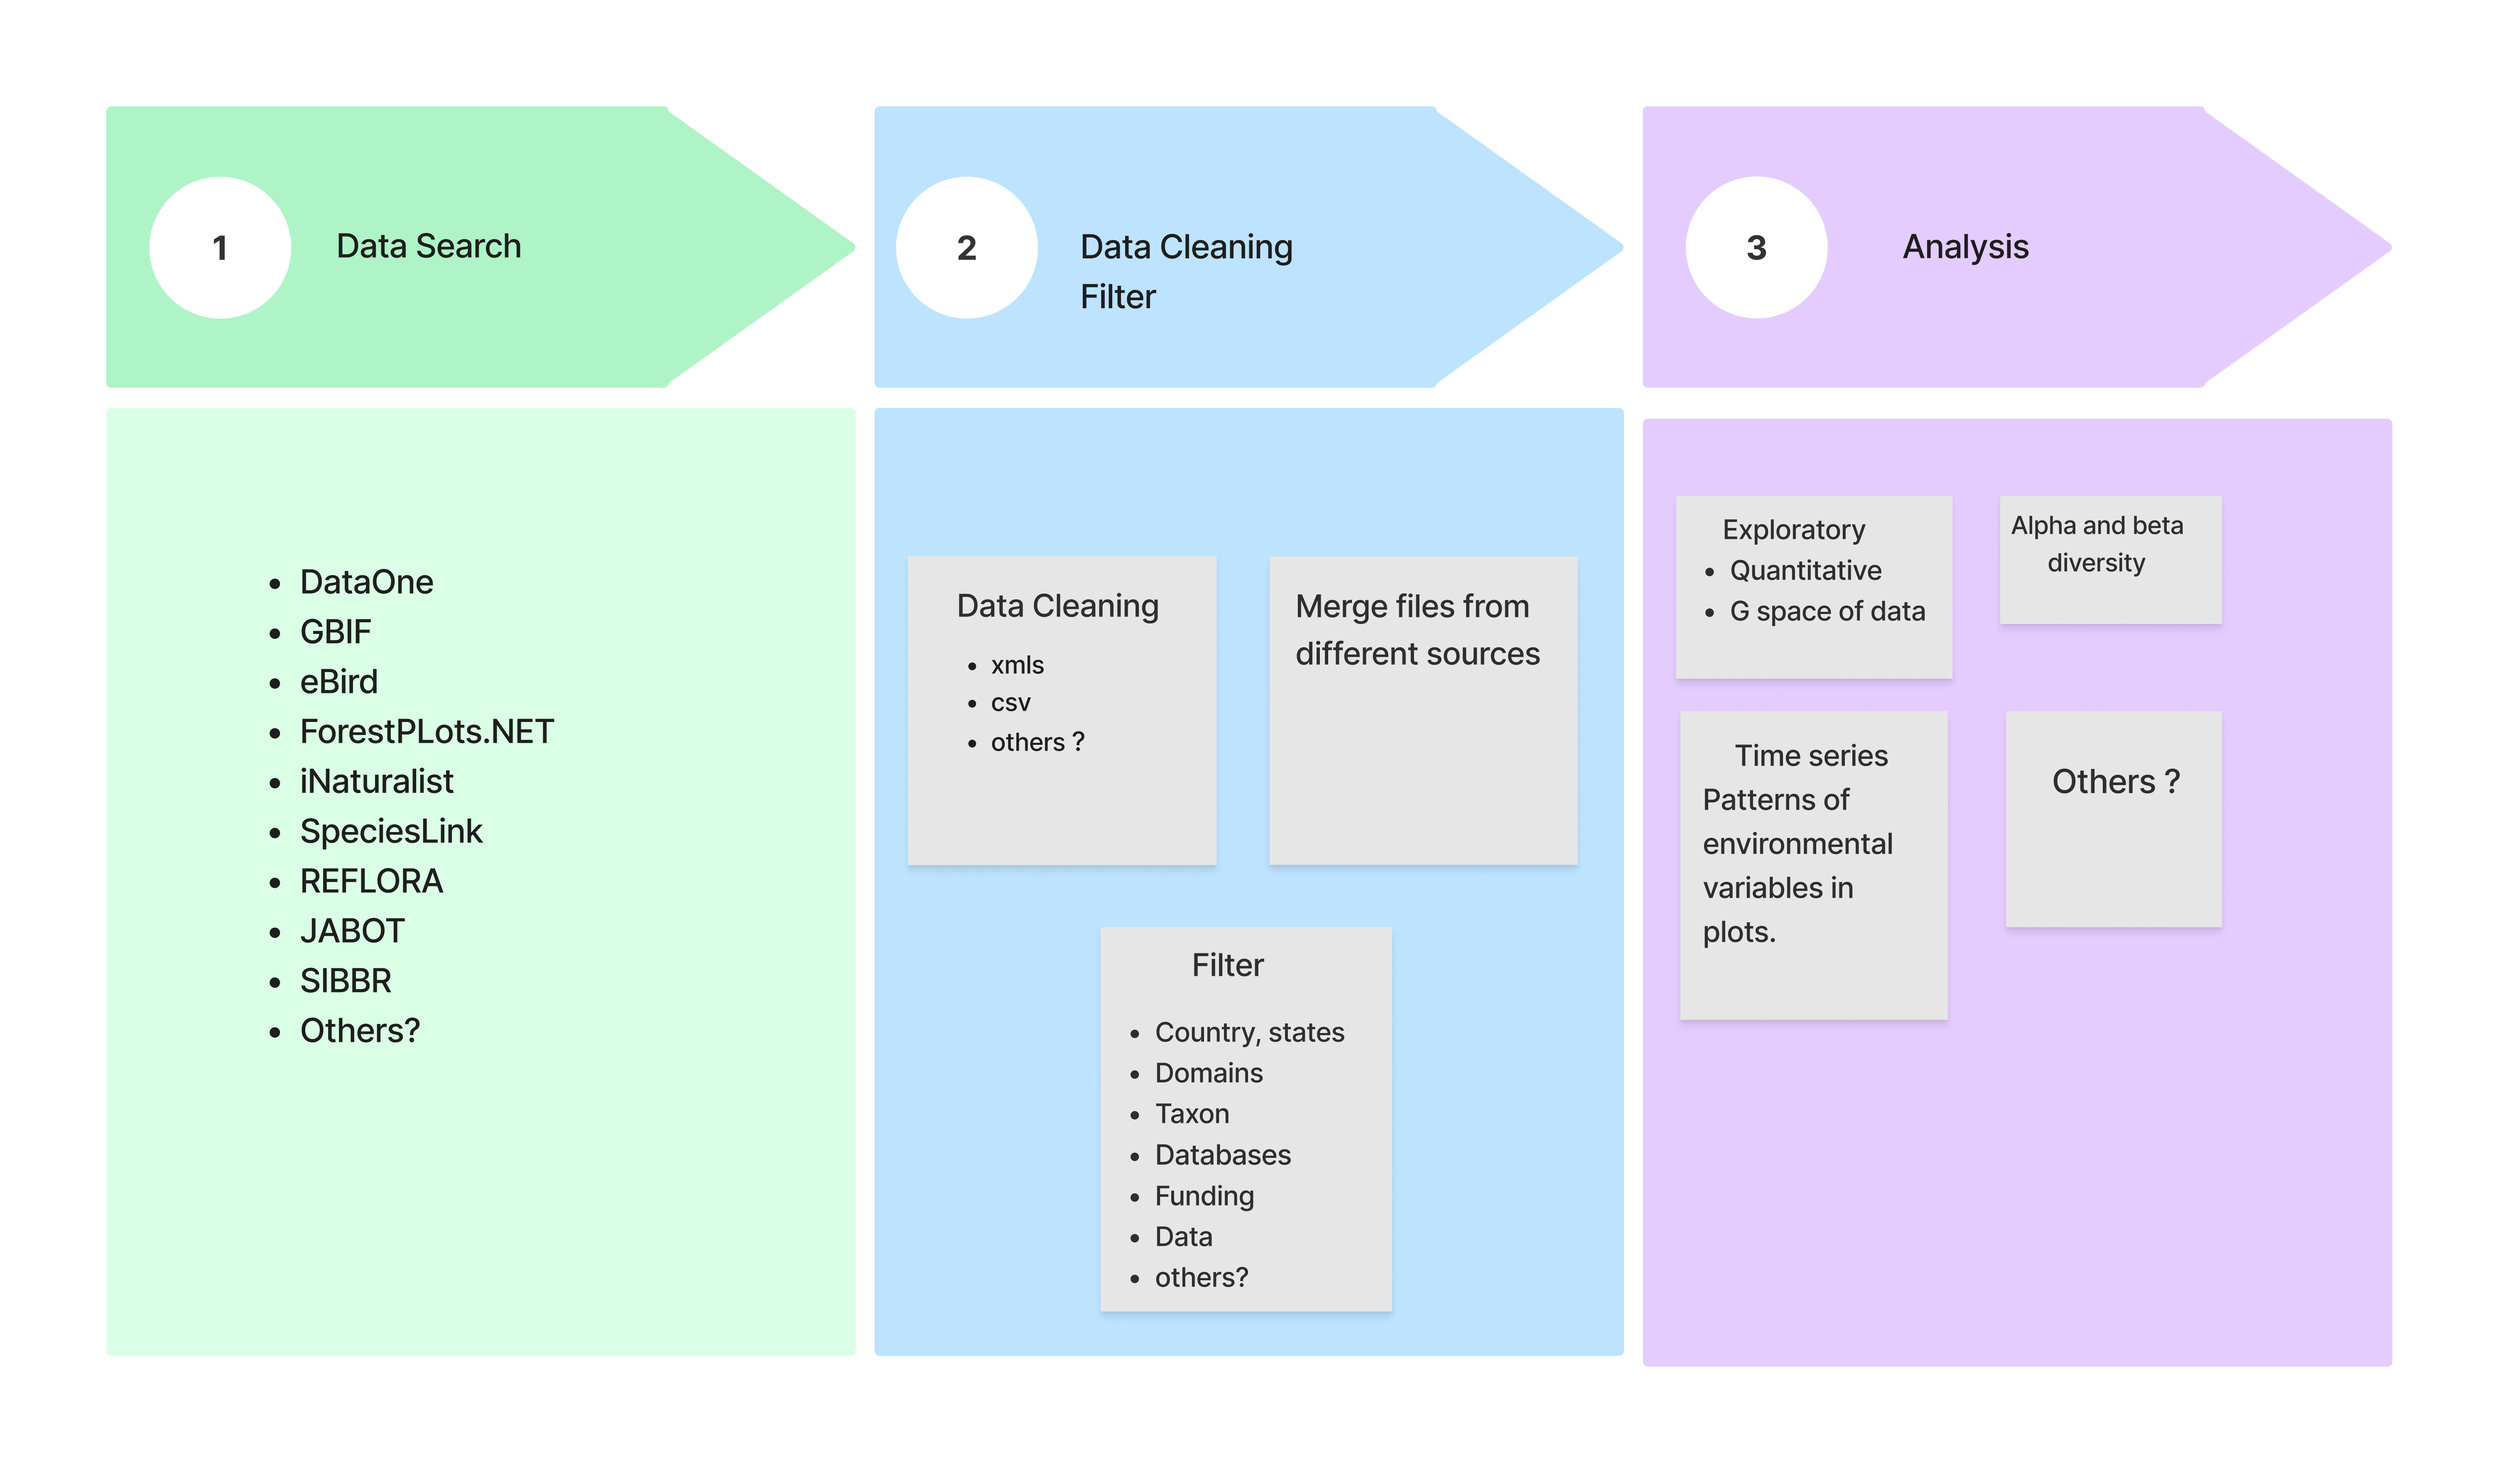
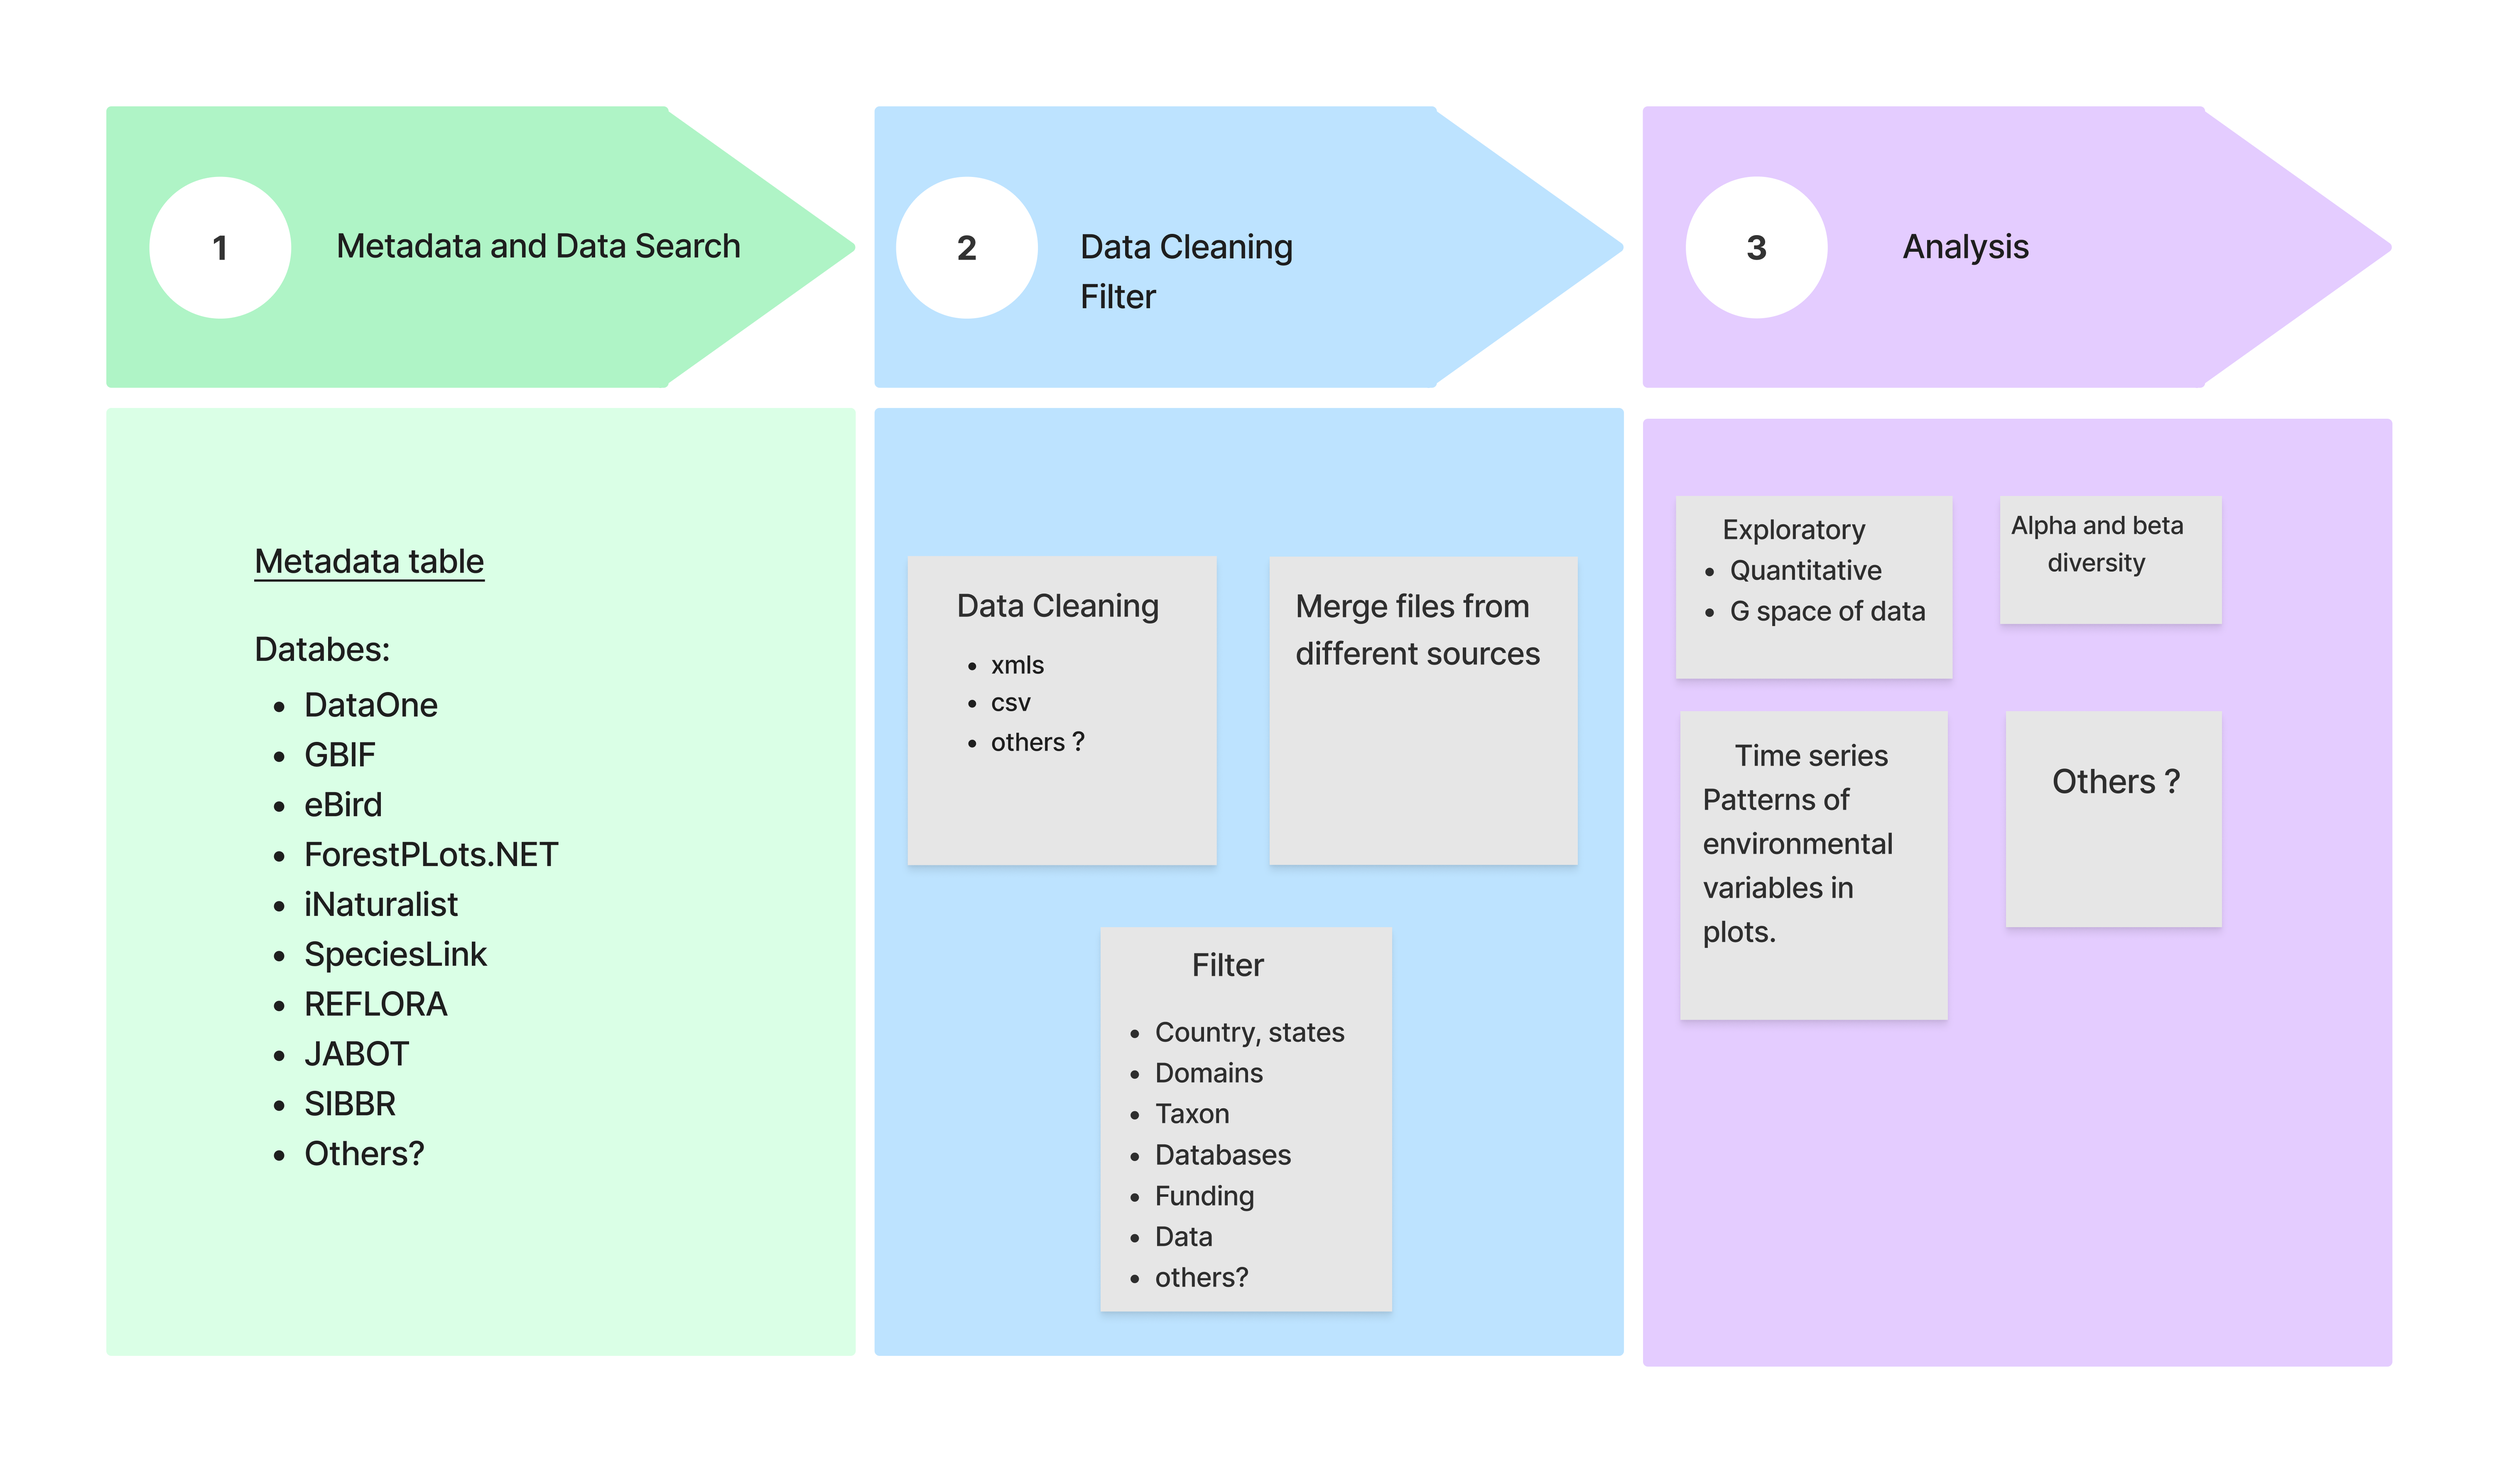
updating README

Changed region(s): [[0.0937, 0.3723, 0.2187, 0.8065], [0.125, 0.1551, 0.2812, 0.1861]]

diff --git a/README.md b/README.md
@@ -4,7 +4,9 @@
 
 Fig.1. [Workflow draft](https://www.figma.com/file/lc17JYGhJAsKvktgFdQ0gx/PPBio_PELD-data?node-id=0%3A1). Feel free to make suggestions and changes.
 
-## Data Search
+## Metadata and data search
+
+[Metadata table](https://mail.google.com/mail/u/0/?ogbl#inbox/FMfcgzGqRGVKGmwLlQvQdtnbWzbjPsvf?projector=1&messagePartId=0.1)
 
 Keywords used: "PPBio"", "Programa de Pesquisa em Biodiversidade", "The Program for Biodiversity Research", "Brazilian Biodiversity Research Programme", "PEDL", "Long-Term Ecological Research Program- PELD"
 
